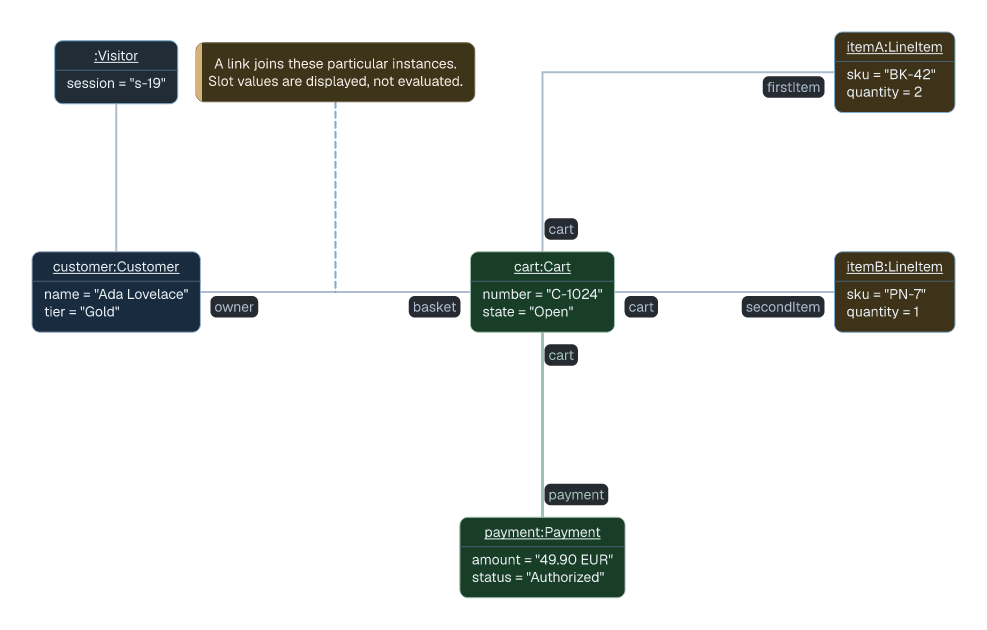
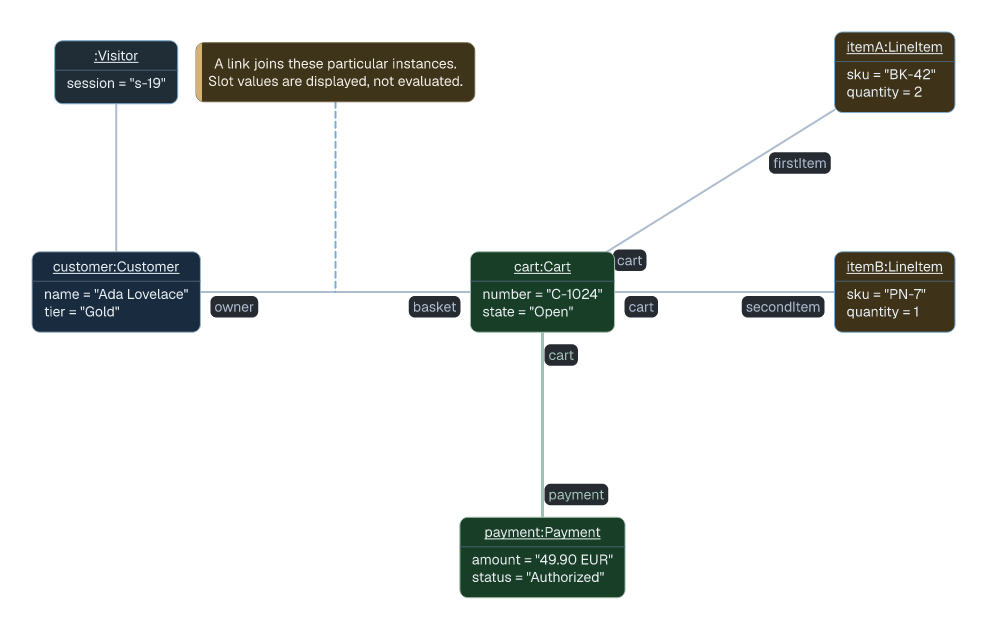
Route sloped object links straight and refresh guide image URLs

diff --git a/src/route/end_labels.rs b/src/route/end_labels.rs
@@ -72,14 +72,32 @@ fn options_one(
                 x: pair[0].x + ux * distance,
                 y: pair[0].y + uy * distance,
             };
+            // The relation moves under the width of a horizontal label (or
+            // the height of a vertical one). Leave room for that slope, not
+            // just for a horizontal/vertical six-pixel gap.
+            let clearance = if horizontal {
+                6.0 + width / 2.0 * (uy / ux).abs()
+            } else {
+                6.0 + height / 2.0 * (ux / uy).abs()
+            };
             let (x, y) = if horizontal {
                 (
                     mid.x - width / 2.0,
-                    mid.y + if side < 0.0 { -height - 6.0 } else { 6.0 },
+                    mid.y
+                        + if side < 0.0 {
+                            -height - clearance
+                        } else {
+                            clearance
+                        },
                 )
             } else {
                 (
-                    mid.x + if side < 0.0 { -width - 6.0 } else { 6.0 },
+                    mid.x
+                        + if side < 0.0 {
+                            -width - clearance
+                        } else {
+                            clearance
+                        },
                     mid.y - height / 2.0,
                 )
             };

diff --git a/tests/docs_navigation.rs b/tests/docs_navigation.rs
@@ -252,12 +252,13 @@ fn every_diagram_guide_starts_with_code_image_and_complete_source() {
                 .expect("missing dark image");
             assert_eq!(dark, light.replace("-modern.png", "-modern-dark.png"));
             for path in [light, dark] {
+                let file = path.split('?').next().unwrap();
                 assert!(
-                    root.join("docs/diagrams").join(path).is_file(),
+                    root.join("docs/diagrams").join(file).is_file(),
                     "{name}: missing {path}"
                 );
             }
-            let filename = Path::new(light)
+            let filename = Path::new(light.split('?').next().unwrap())
                 .file_stem()
                 .unwrap()
                 .to_str()

diff --git a/tests/object_layout.rs b/tests/object_layout.rs
@@ -28,7 +28,9 @@ fn object_showcase_uses_straight_free_lanes_without_crossing_the_visitor_link() 
     let attachment = routes.last().unwrap();
     assert!(attachment.points.iter().all(|p| p.x > vertical[0].x));
     let first = link("cart", "itemA");
-    assert!(first.windows(2).all(|pair| {
-        (pair[0].x - pair[1].x).abs() < 1e-6 || (pair[0].y - pair[1].y).abs() < 1e-6
-    }));
+    assert_eq!(
+        first.len(),
+        2,
+        "firstItem must be a single straight segment: {first:?}"
+    );
 }

diff --git a/docs/diagrams/object.md b/docs/diagrams/object.md
@@ -50,8 +50,8 @@ styling {
 ```
 
 <picture>
-  <source media="(prefers-color-scheme: dark)" srcset="../images/showcase-object-modern-dark.png">
-  <img src="../images/showcase-object-modern.png" alt="Styled object diagram with instances and attached note">
+  <source media="(prefers-color-scheme: dark)" srcset="../images/showcase-object-modern-dark.png?v=20261104-2">
+  <img src="../images/showcase-object-modern.png?v=20261104-2" alt="Styled object diagram with instances and attached note">
 </picture>
 
 [Complete source](../../examples/showcase-object.laml). Use named links to target individual styling or attach a note; scope styling with `node[ID]` and `relation[ID]`. Unlike class associations, object links do not carry multiplicities. For common placement and styling, see [GNE](gne.md); for instance forms, see the [language reference](../language-reference.md#class-and-object-diagrams).
